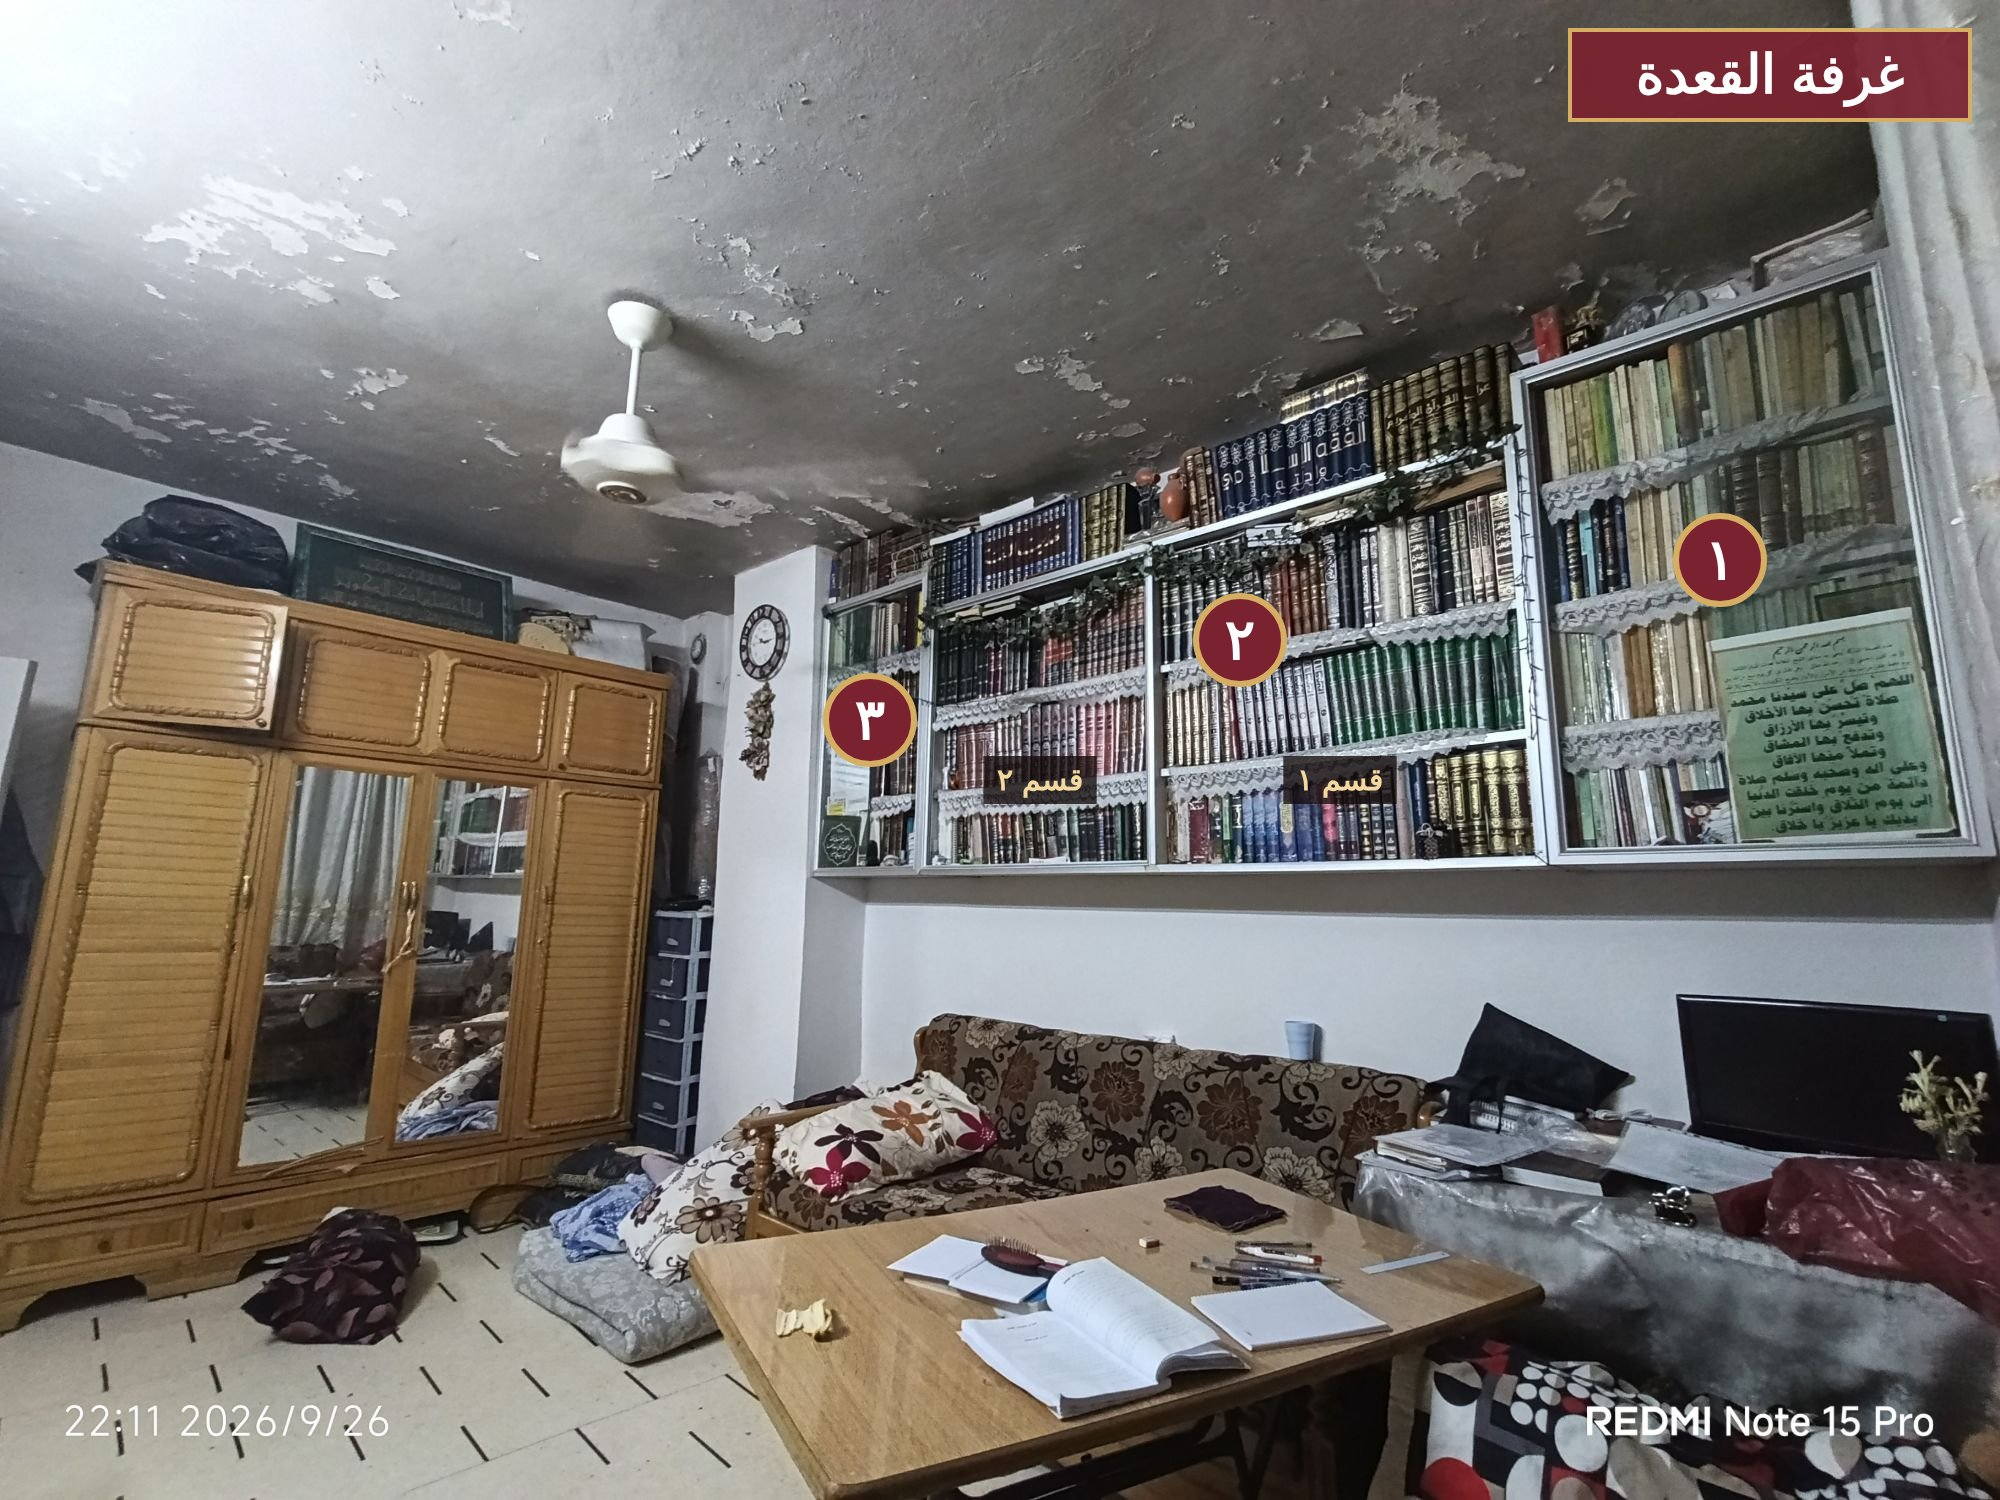
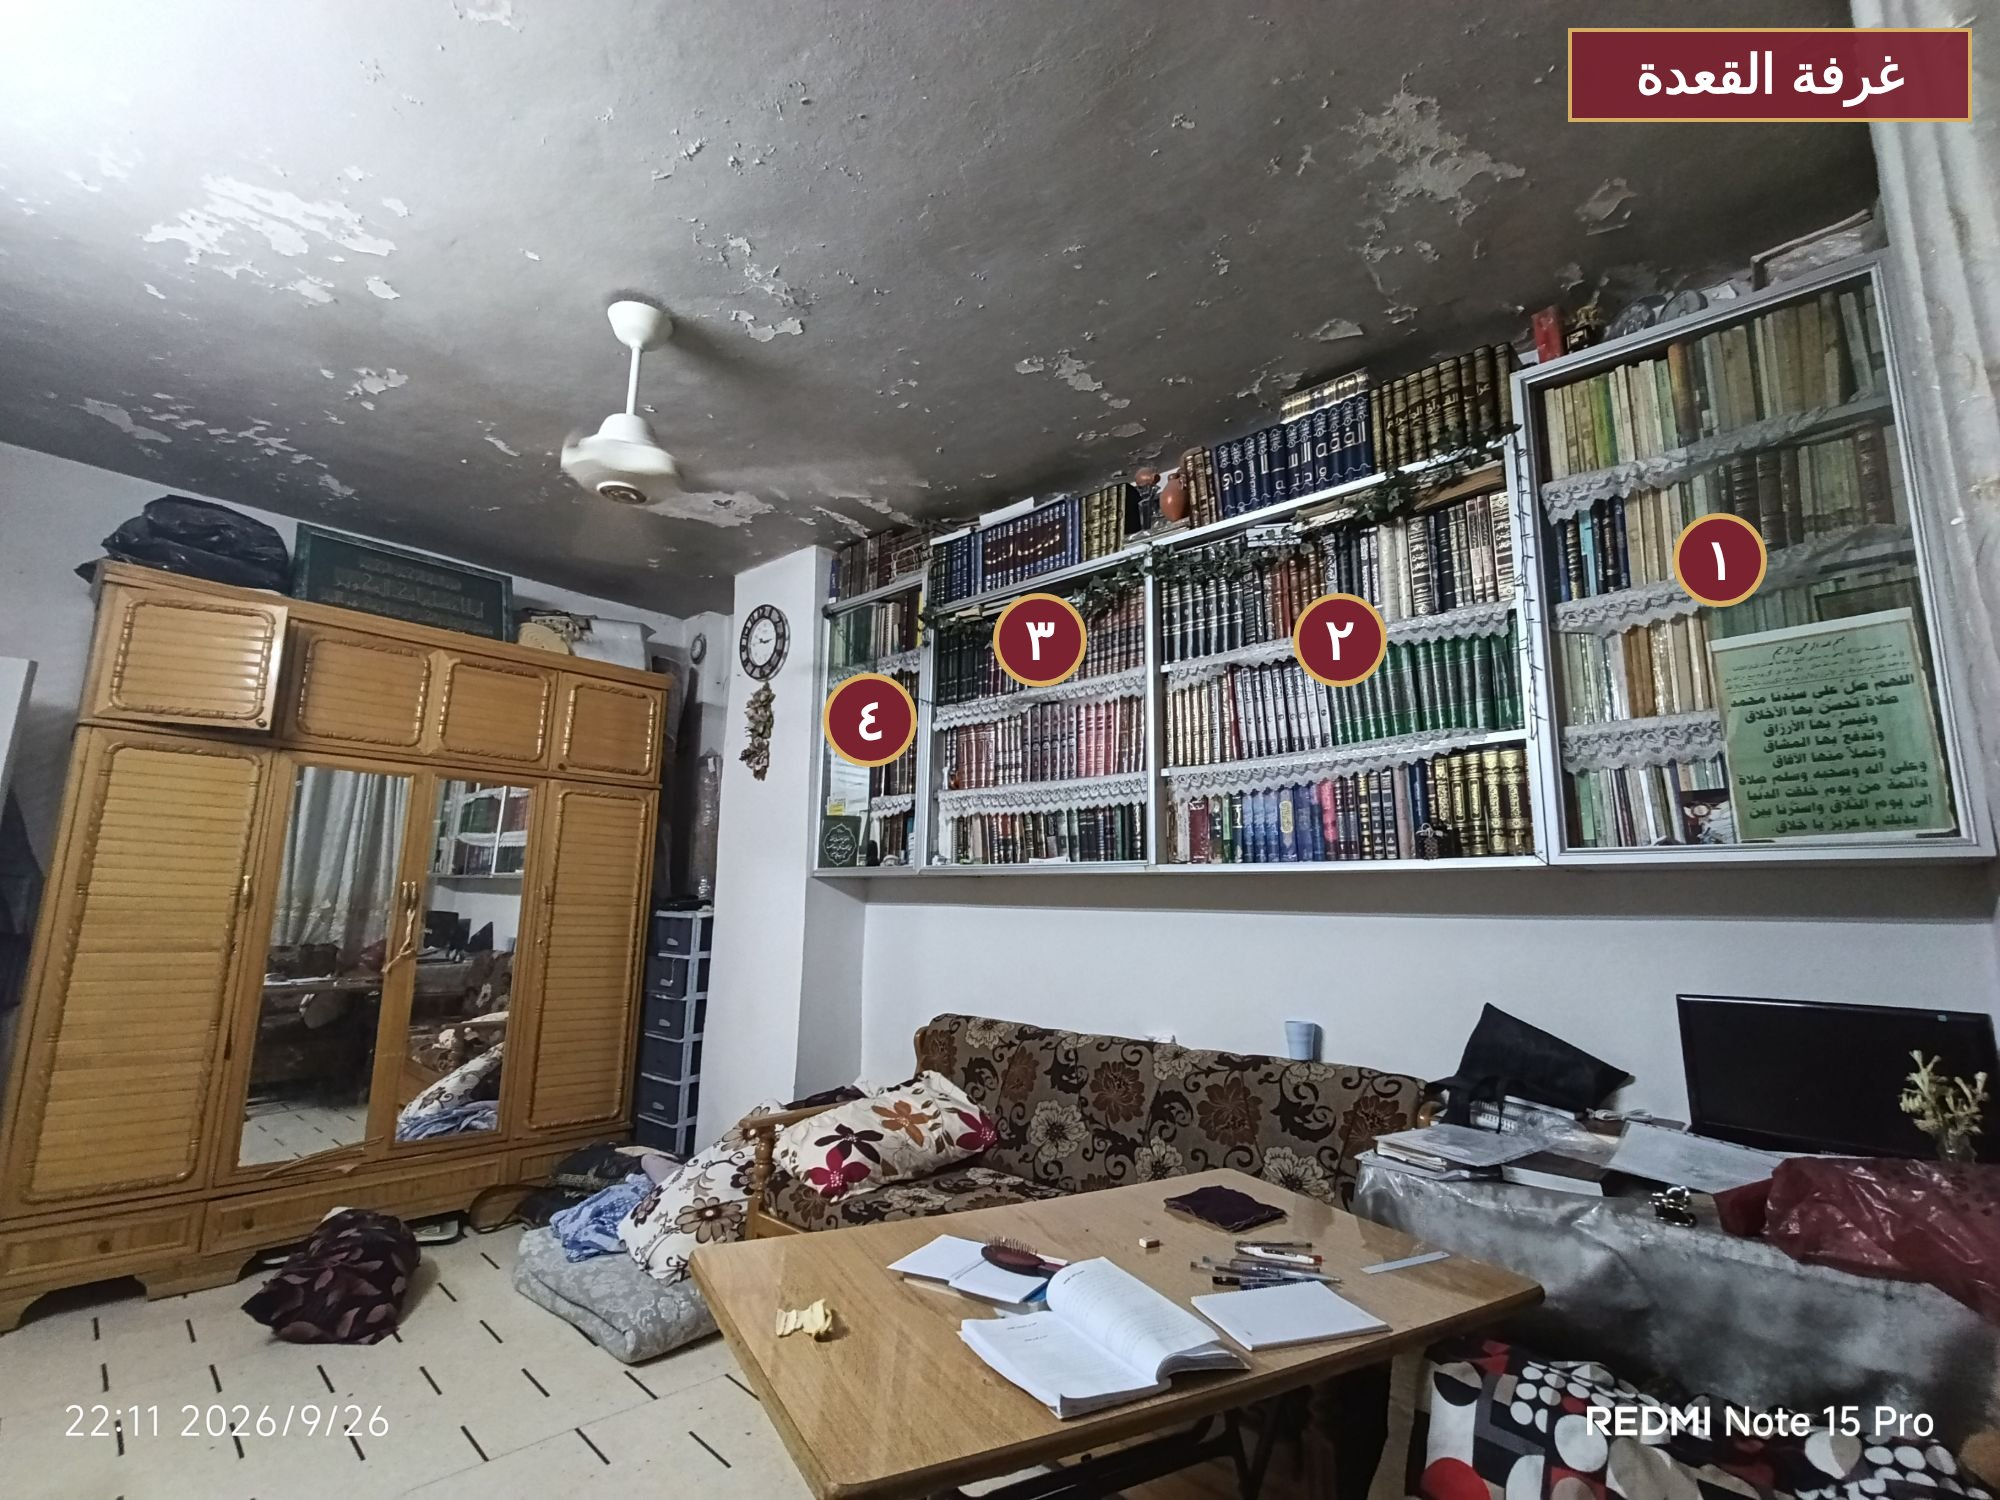
Correct bookcase numbering: salon 6, qaada 4
Claude-Session: https://claude.ai/code/session_01VsNjZTxkuPm4Ex7K68Sd7T

diff --git a/docs/PROJECT_BRIEF.md b/docs/PROJECT_BRIEF.md
@@ -41,23 +41,25 @@
 
 ### المكتبات الموجودة (من الصور، والقياسات ⏳)
 
-**الصالون** (`docs/rooms/salon-numbered.jpg`): حيطين بشكل L.
+**الصالون** (`docs/rooms/salon-numbered.jpg`): 6 مكتبات على حيطين بشكل L.
 | رقم | المكتبة | الأقسام والرفوف |
 |---|---|---|
 | ١ | خزانة الزجاج (الحيط الطويل، جنب الشباك) | قسمين × ٣ رفوف، أبواب زجاج سحّابة |
 | ٢ | المكتبة المفتوحة (الحيط الطويل) | قسم واحد × ٣ رفوف |
-| ٣ | وحدة الزاوية (فيها المصحف) | قسم واحد × ٣ رفوف |
-| ٤ | المكتبة المفتوحة (حيط الباب) | قسم واحد × ٣ رفوف |
-| ٥ | الوحدة الصغيرة (الرف المنحني + الزجاج الصغير) | بيتأكد من صورة قريبة |
-| ٦ | خزانة الزجاج العلوية (فوق رقم ٥) | بيتأكد من صورة قريبة |
-| ٧ | خزانة الزجاج فوق الباب | بيتأكد من صورة قريبة |
+| ٣ | المكتبة المفتوحة (حيط الباب) | قسم واحد × ٣ رفوف |
+| ٤ | خزانة الزجاج العلوية (فوق رقم ٦) | ⏳ صورة قريبة |
+| ٥ | خزانة الزجاج فوق الباب | ⏳ صورة قريبة |
+| ٦ | الوحدة الصغيرة جنب الباب (الرف المنحني + الزجاج الصغير) | الرف الفوقاني فيه كتب، والتحتاني غراض شخصية |
 
-**غرفة القعدة** (`docs/rooms/qaada-numbered.jpg`): حيط واحد، ألمنيوم وزجاج، ودانتيل على الرفوف.
+> وحدة الزاوية الصغيرة بين ٢ و٣ **مش محسوبة** كمكتبة، لأنها ما فيها كتب.
+
+**غرفة القعدة** (`docs/rooms/qaada-numbered.jpg`): 4 مكتبات على حيط واحد، ألمنيوم وزجاج، ودانتيل على الرفوف.
 | رقم | المكتبة | الأقسام والرفوف |
 |---|---|---|
 | ١ | خزانة الزجاج اليمين (جنب الشباك) | قسم واحد × ٤ رفوف تقريباً |
-| ٢ | المكتبة الكبيرة بالنص (مفتوحة) | قسمين × ٣ رفوف |
-| ٣ | خزانة الزجاج الشمال (جنب الساعة) | قسم واحد × ٤ رفوف تقريباً |
+| ٢ | المكتبة الكبيرة اليمين بالنص (مفتوحة) | قسم واحد × ٣ رفوف |
+| ٣ | المكتبة الكبيرة الشمال بالنص (مفتوحة) | قسم واحد × ٣ رفوف |
+| ٤ | خزانة الزجاج الشمال (جنب الساعة) | قسم واحد × ٤ رفوف تقريباً |
 
 وفي كتب **فوق** أغلب المكتبات، بالغرفتين.
 
